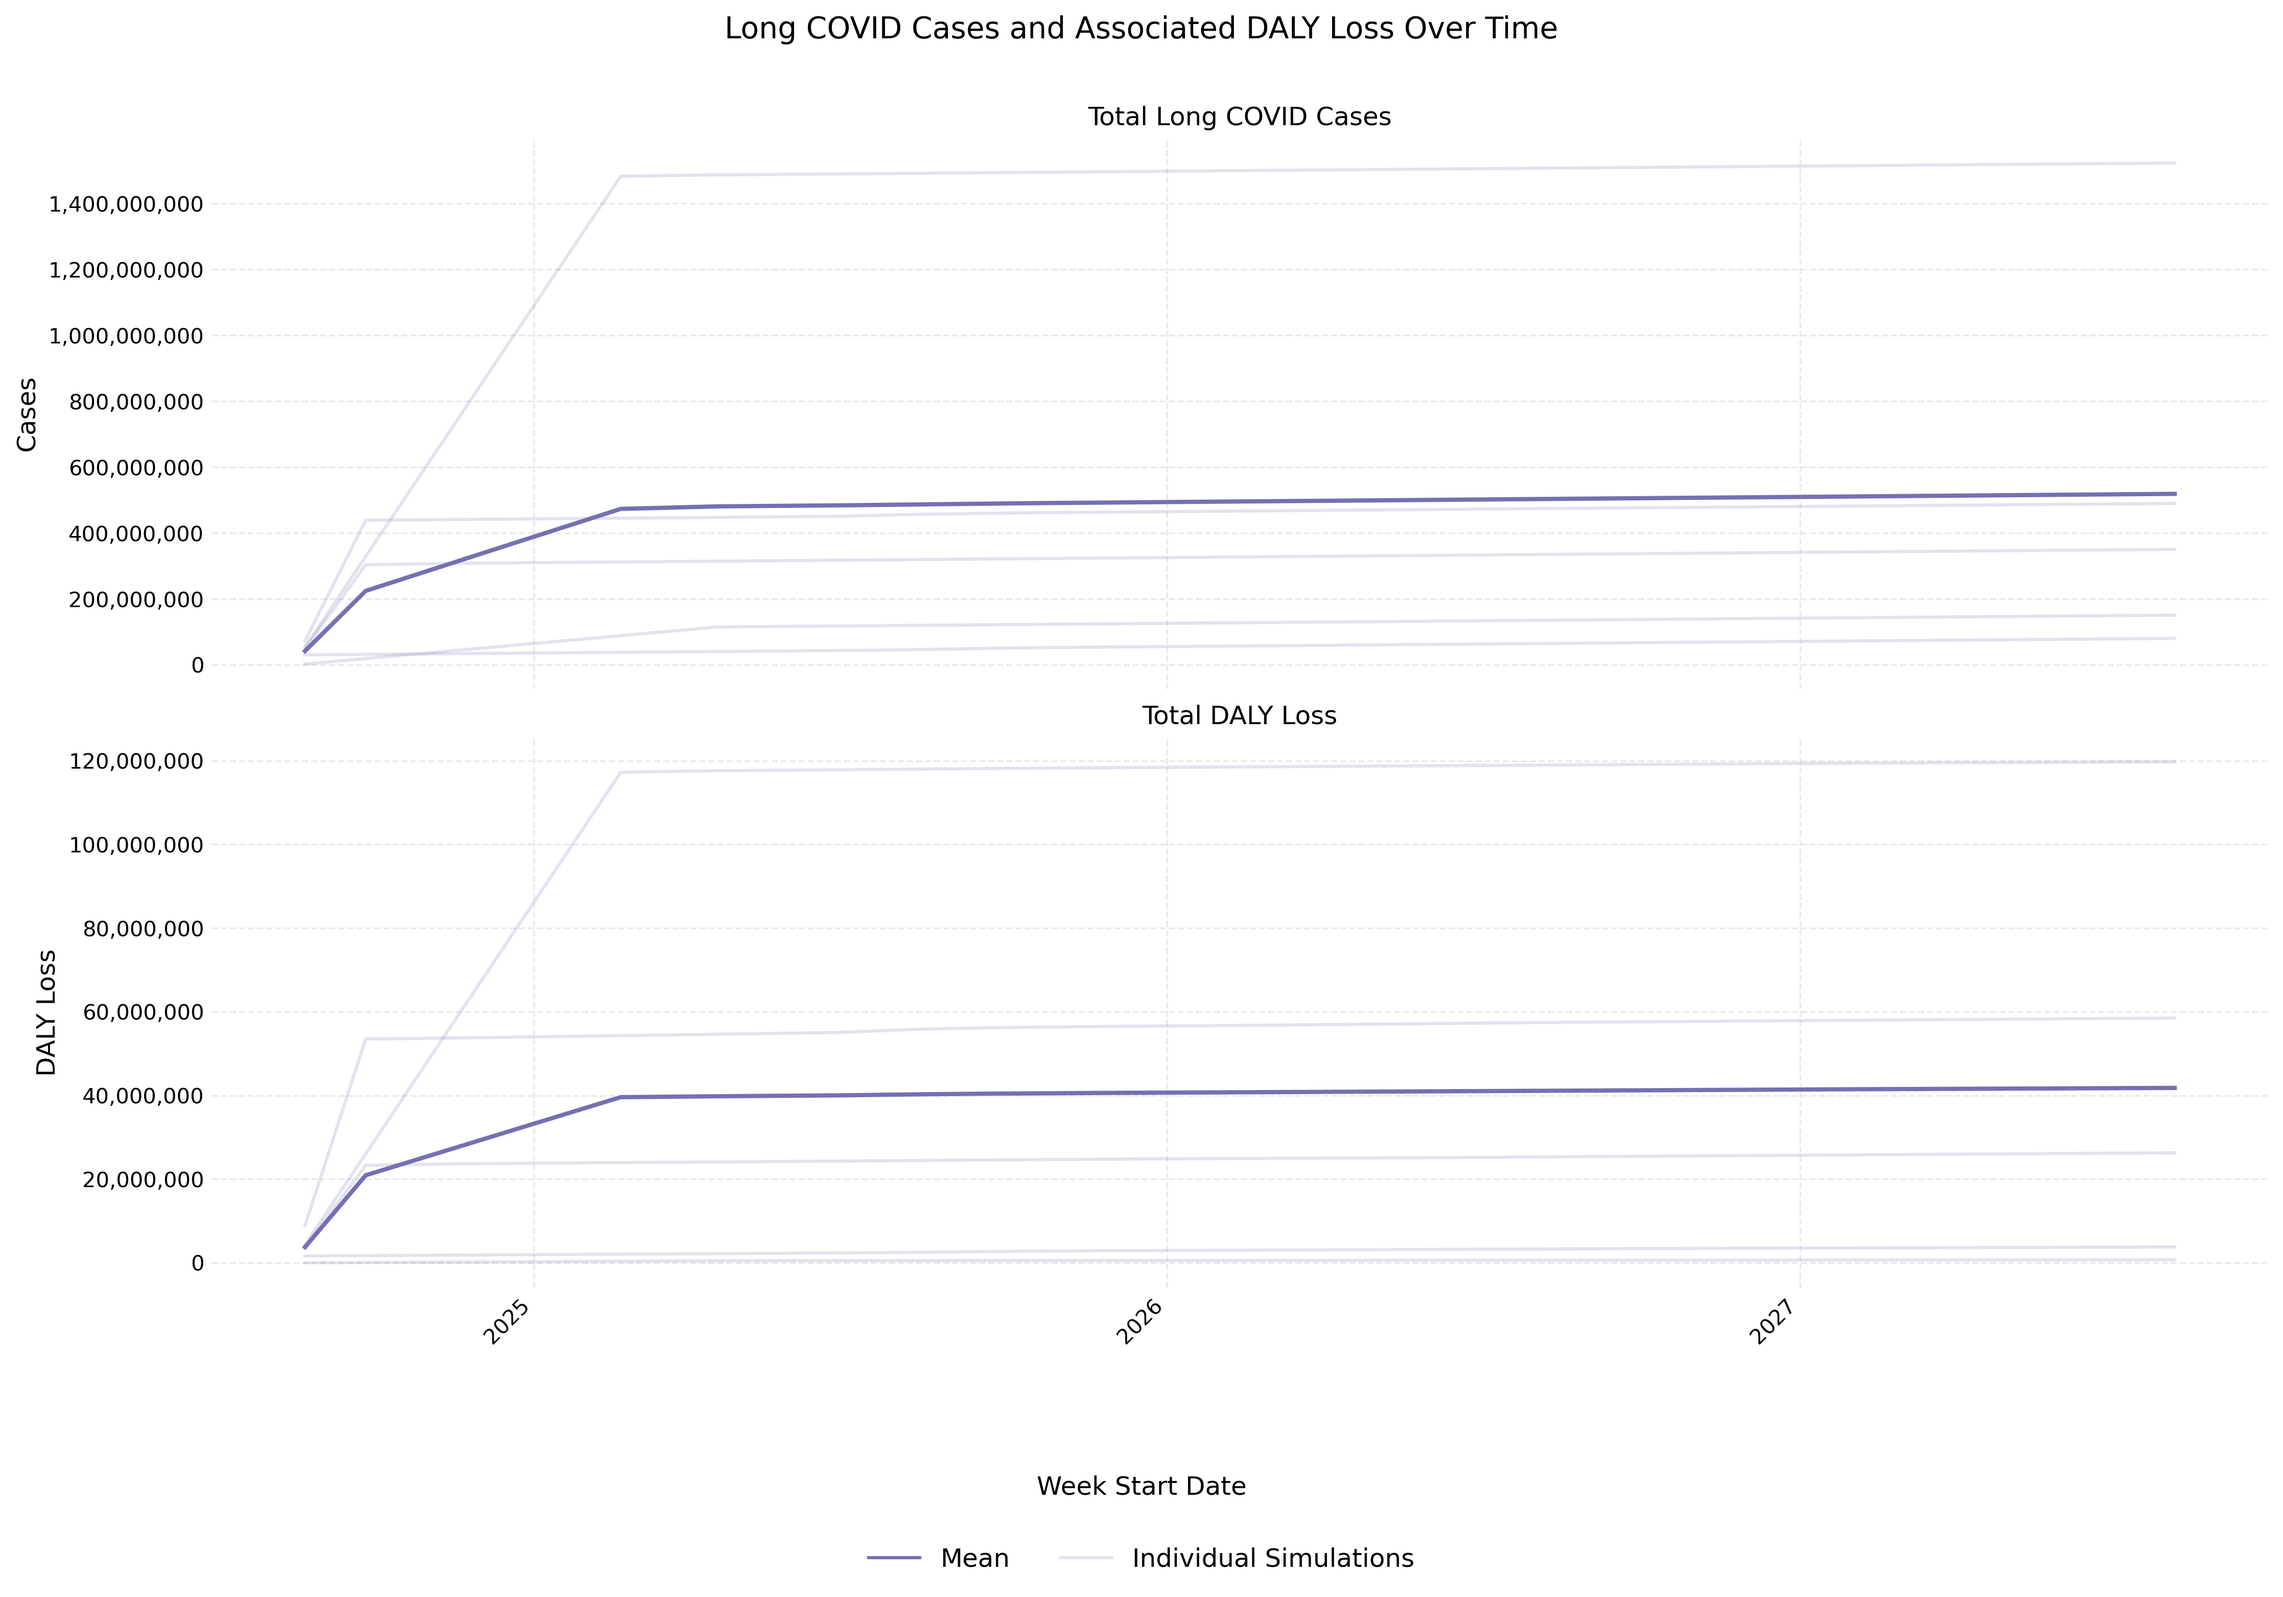
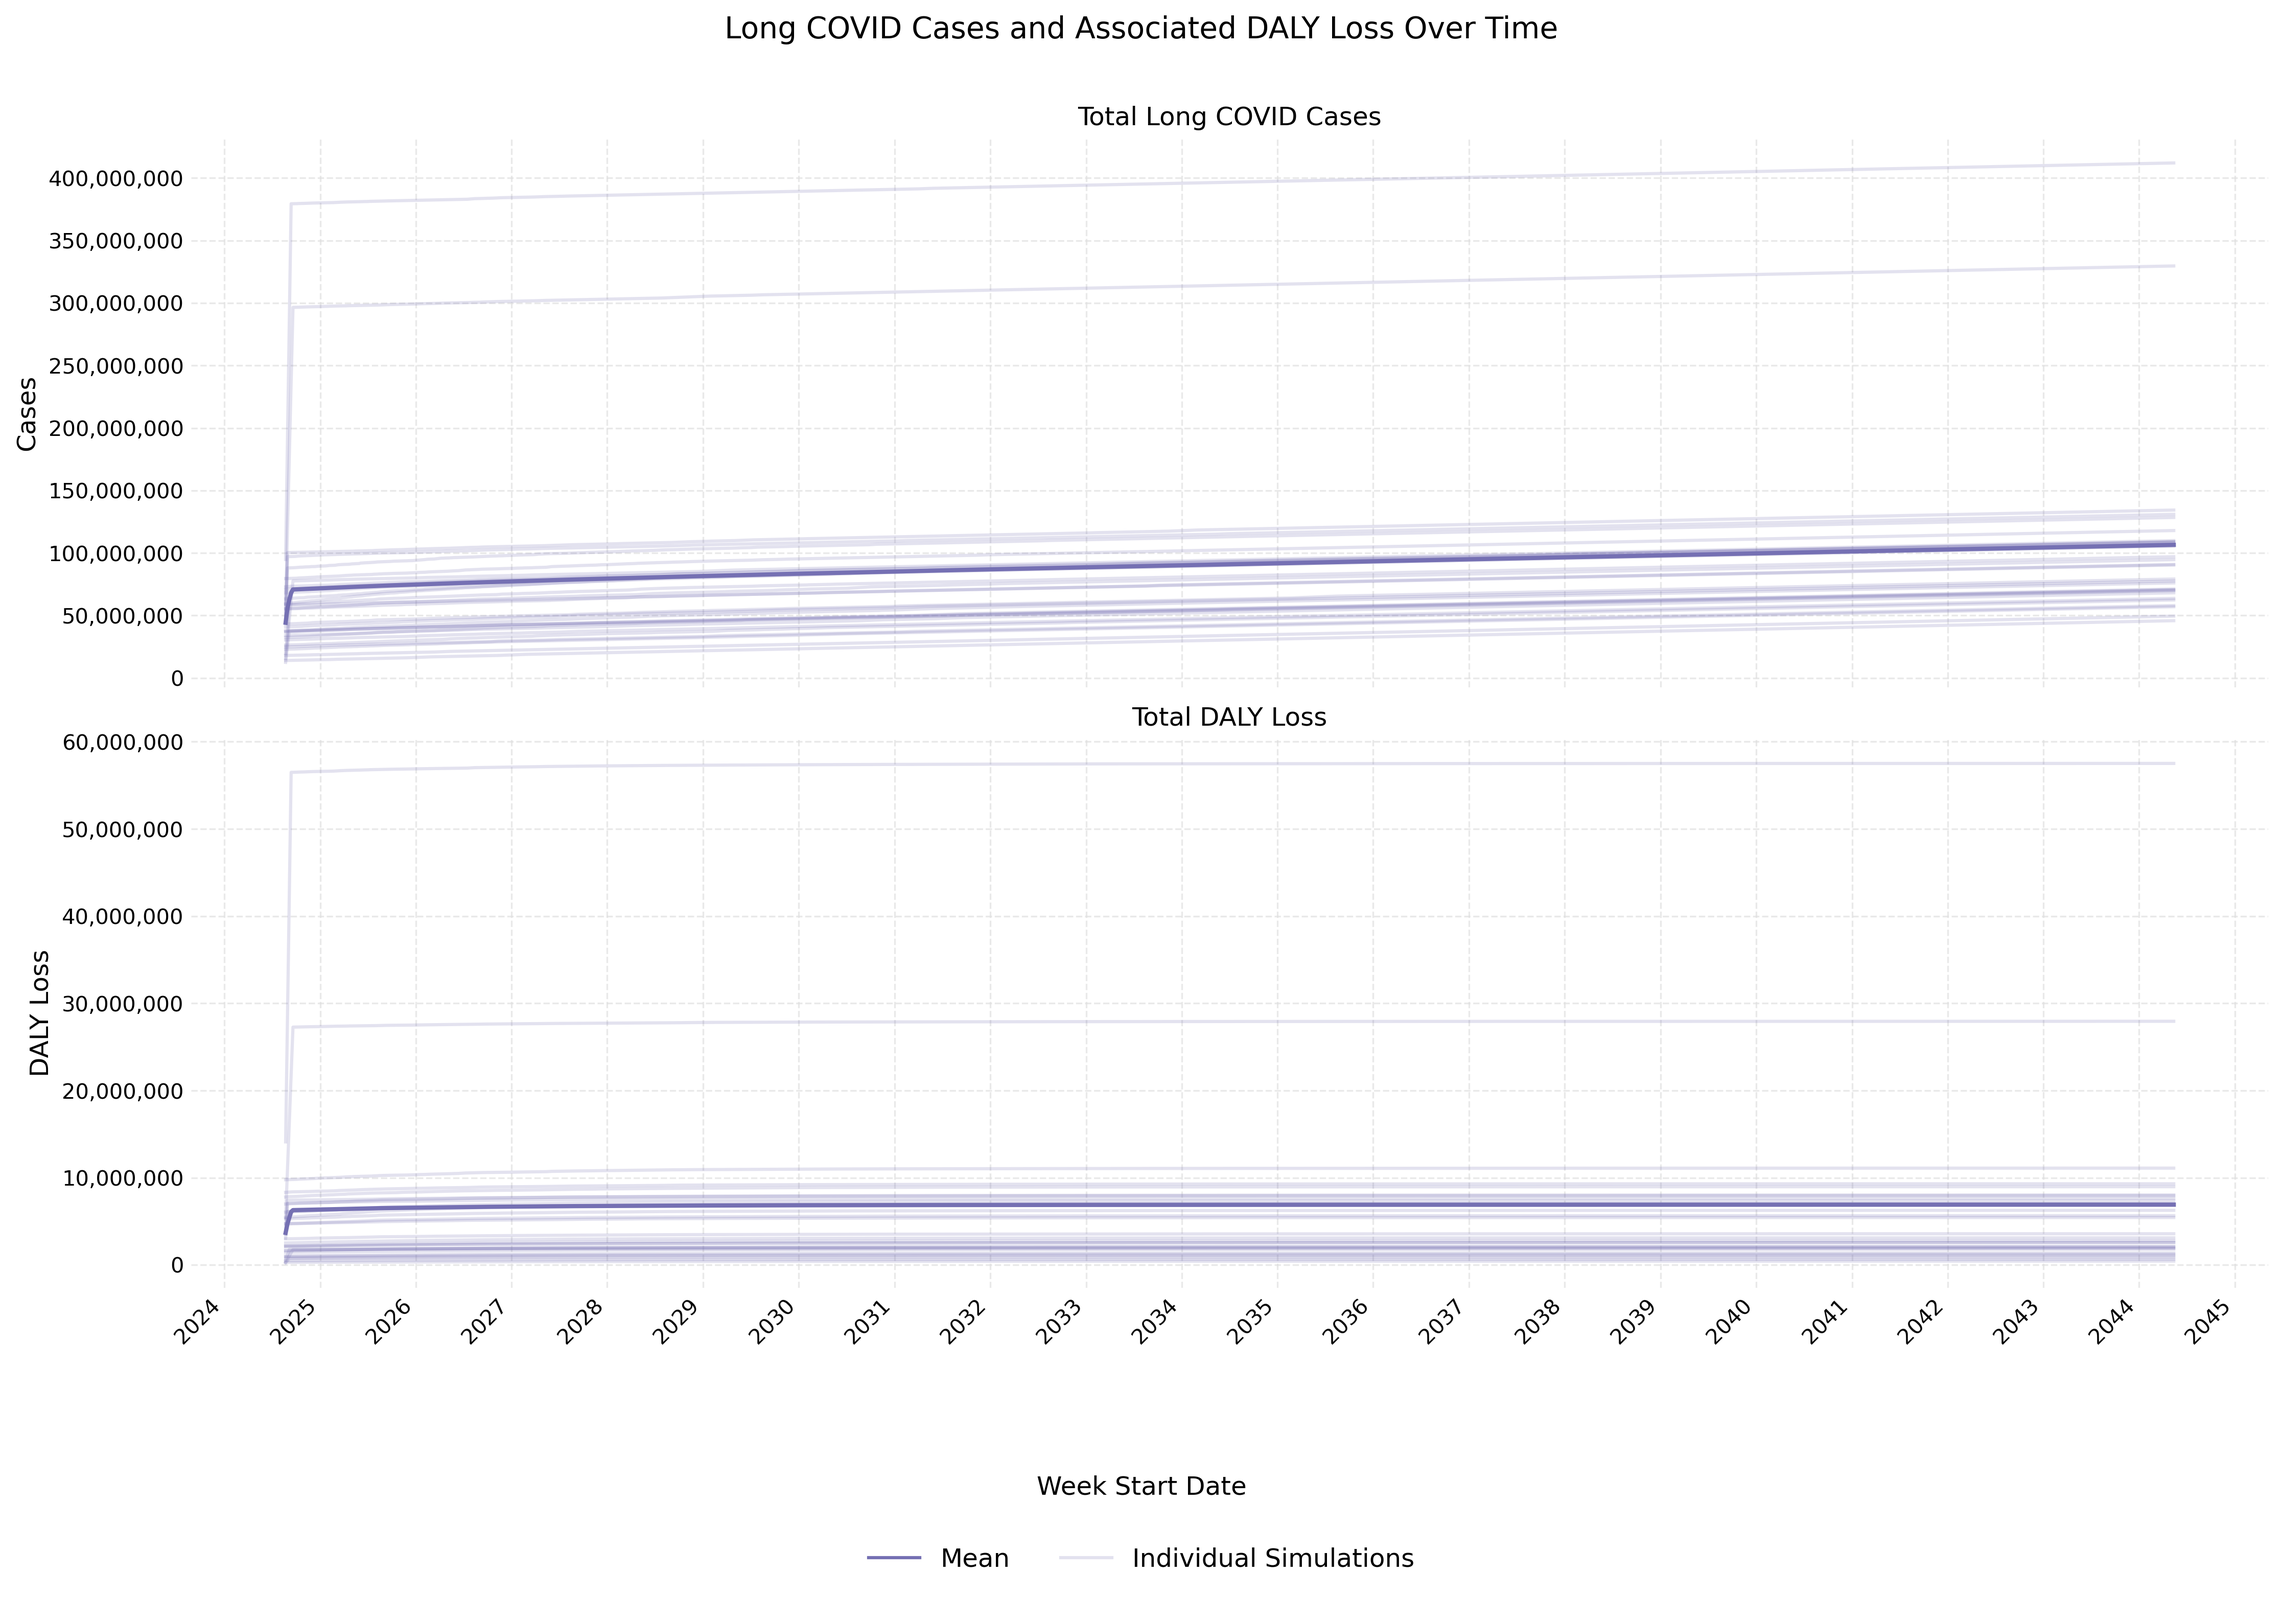
20-year results

diff --git a/main.py b/main.py
@@ -18,8 +18,8 @@ logging.info('Data processing started.')
 
 
 def main():
-    years = 3
-    n_simulations = 3
+    years = 20
+    n_simulations = 30
     population_size_deflator = 30_000
 
     # Setup logging
